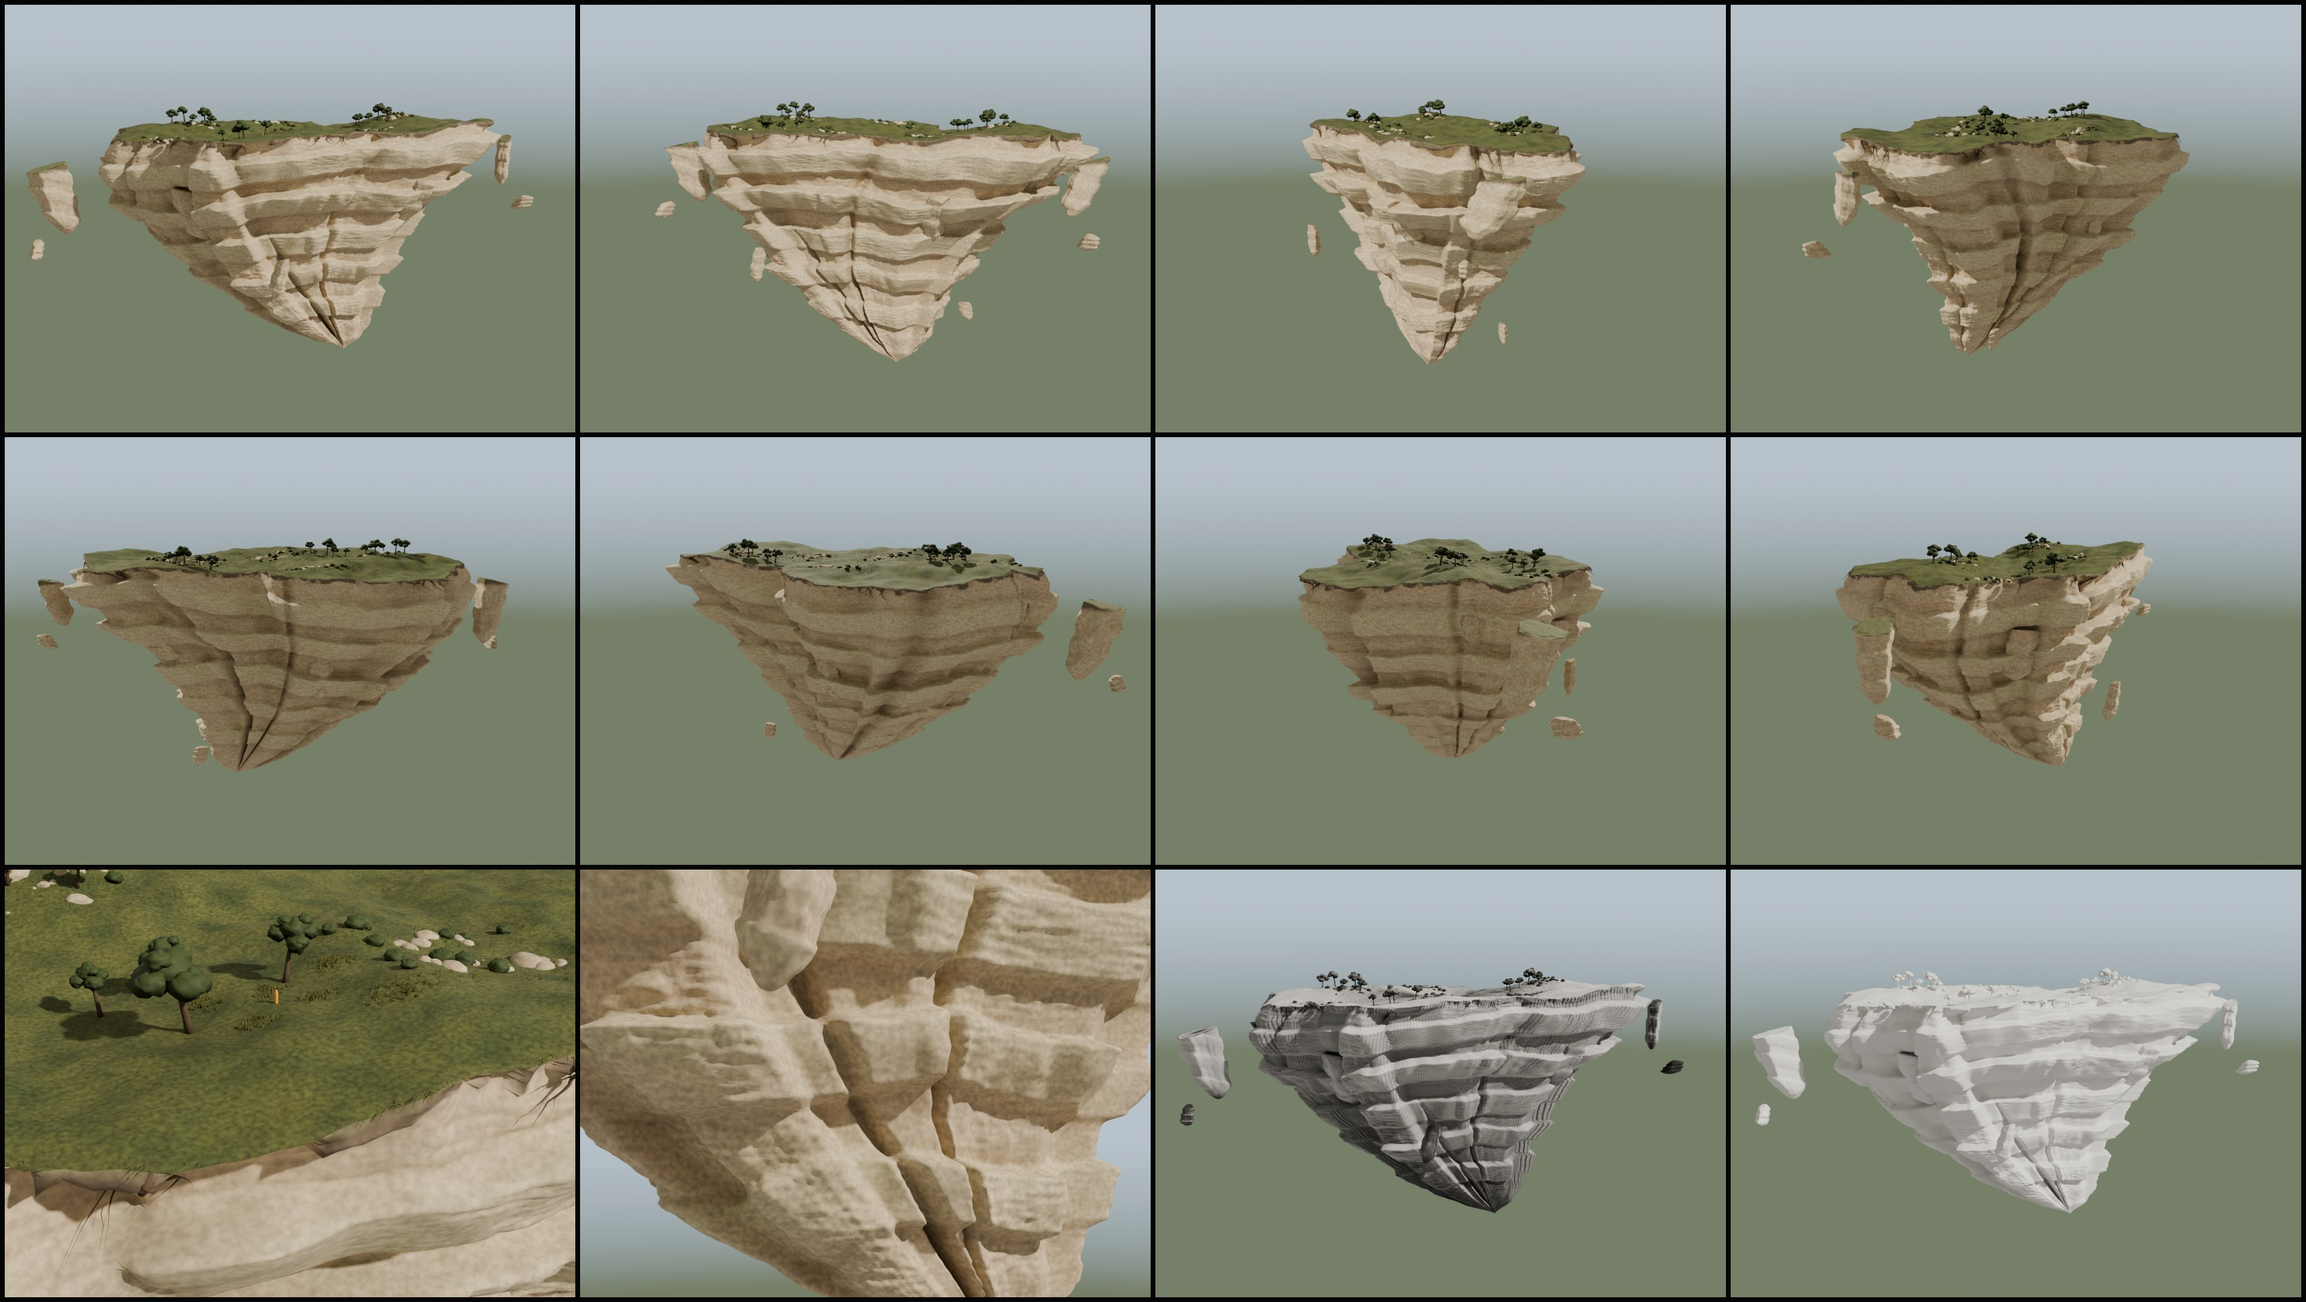
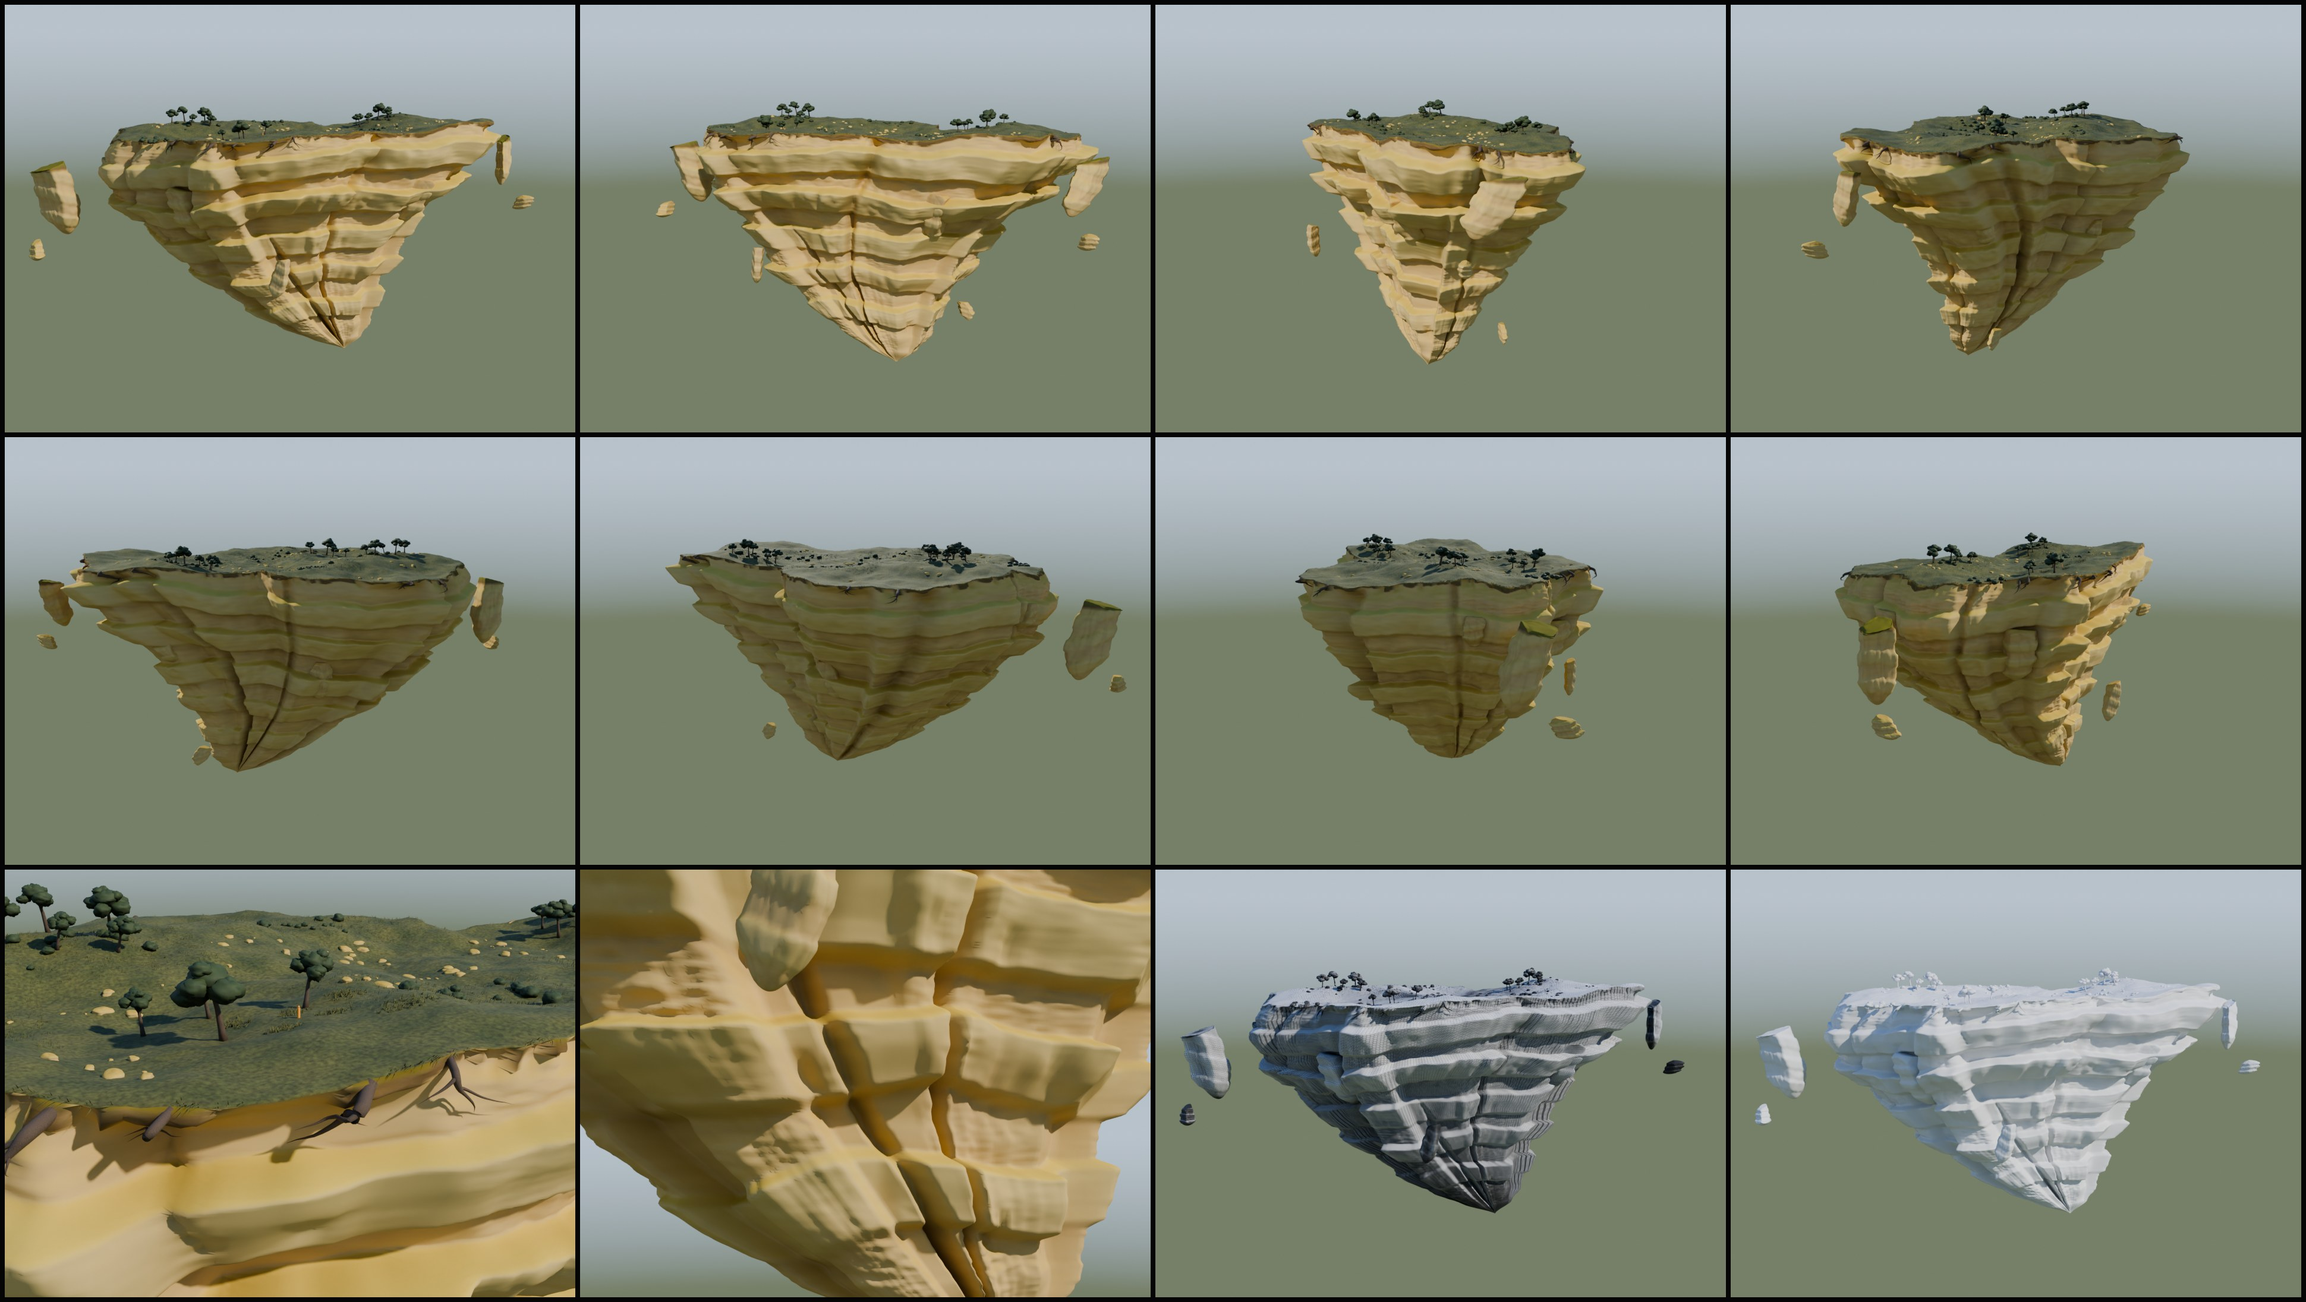
Scatter summit stone clumps and sharpen island ledges

diff --git a/assets/sky/floating_island_a/build.py b/assets/sky/floating_island_a/build.py
@@ -61,11 +61,11 @@ def mix(a, b, t):
 
 
 def tint(material, attribute, strength, name):
-    # Retain the library's mineral grain/roughness; add metre-scale geological colour.
     mat = vrmat.get(material).copy()
     mat.name = name
     nodes, links = mat.node_tree.nodes, mat.node_tree.links
-    socket = nodes["Principled BSDF"].inputs["Base Color"]
+    bsdf = nodes["Principled BSDF"]
+    socket = bsdf.inputs["Base Color"]
     color = nodes.new("ShaderNodeAttribute")
     color.attribute_name = attribute
     blend = nodes.new("ShaderNodeMixRGB")
@@ -80,23 +80,49 @@ def tint(material, attribute, strength, name):
         links.new(base, blend.inputs[1])
         links.new(color.outputs["Color"], blend.inputs[2])
     result = blend.outputs[0]
-    if material in {"grass_ground", "canyon_layered"}:
+    if material == "canyon_layered":
+        normal = nodes.new("ShaderNodeNewGeometry")
+        up = nodes.new("ShaderNodeSeparateXYZ")
+        links.new(normal.outputs["Normal"], up.inputs[0])
+        exposure = nodes.new("ShaderNodeMapRange")
+        exposure.inputs["From Min"].default_value = .04
+        exposure.inputs["From Max"].default_value = .78
+        links.new(up.outputs["Z"], exposure.inputs["Value"])
+        pigment = nodes.new("ShaderNodeMixRGB")
+        links.new(exposure.outputs["Result"], pigment.inputs[0])
+        pigment.inputs[1].default_value = (1.12, .97, .60, 1)
+        pigment.inputs[2].default_value = (1.14, .95, .30, 1)
+        mineral = nodes.new("ShaderNodeMixRGB")
+        mineral.blend_type = "MULTIPLY"
+        mineral.inputs[0].default_value = 1
+        links.new(pigment.outputs[0], mineral.inputs[2])
+        links.new(result, mineral.inputs[1])
+        result = mineral.outputs[0]
+        bsdf.inputs["Specular IOR Level"].default_value = .04
+        for node in nodes:
+            if node.type == "BUMP":
+                node.inputs["Distance"].default_value *= .28
+    elif material == "grass_ground":
         coords = next(n for n in nodes if n.type == "TEX_COORD")
         grain = nodes.new("ShaderNodeTexNoise")
-        grain.inputs["Scale"].default_value = 1.55 if material == "grass_ground" else .96
+        grain.inputs["Scale"].default_value = 1.55
         grain.inputs["Detail"].default_value = 3.4
         links.new(coords.outputs["Object"], grain.inputs["Vector"])
         shade = nodes.new("ShaderNodeMapRange")
         shade.inputs["From Min"].default_value = .29
         shade.inputs["From Max"].default_value = .71
-        shade.inputs["To Min"].default_value = .58 if material == "grass_ground" else .73
-        shade.inputs["To Max"].default_value = 1.26 if material == "grass_ground" else 1.15
+        shade.inputs["To Min"].default_value = .58
+        shade.inputs["To Max"].default_value = 1.26
         links.new(grain.outputs["Fac"], shade.inputs["Value"])
         mottling = nodes.new("ShaderNodeMixRGB")
         mottling.blend_type = "MULTIPLY"
         mottling.inputs[0].default_value = 1
         links.new(result, mottling.inputs[1])
-        links.new(shade.outputs["Result"], mottling.inputs[2])
+        olive = nodes.new("ShaderNodeVectorMath")
+        olive.operation = "MULTIPLY"
+        links.new(shade.outputs["Result"], olive.inputs[0])
+        olive.inputs[1].default_value = (1.15, 1, .74)
+        links.new(olive.outputs["Vector"], mottling.inputs[2])
         result = mottling.outputs[0]
     links.new(result, socket)
     return mat
@@ -158,13 +184,13 @@ def summit(x, y):
 
 def bed_color(p, lith, cavity, x, y, z):
     patina = n3(x/14, y/13, z/16)
-    veins = n3(x/3.7, y/3.7, z/.84)
+    veins = n3(x/7.3, y/6.4, z/1.68)
     limestone = mix(p["canyon_strata"], p["sandstone"], .47 + .13*patina)
     ivory = mix(p["canyon_chalk"], p["path_sand"], .20)
     dry = mix(limestone, ivory, smooth(.39 + lith + .16*patina))
     shaded = mix(limestone, p["soil"], .51)
     tone = mix(dry, shaded, min(.74, cavity*.70))
-    return tuple(v * (1 + .24 * veins) for v in tone)
+    return tuple(v * (1 + (.09 + .13*smooth(cavity)) * veins) for v in tone)
 
 
 def profile(t):
@@ -179,6 +205,31 @@ def lip(q):
     return smooth((q+.07)/.22) * (1-.23*smooth((q-.35)/.56)) * (1-smooth((q-.91)/.18))
 
 
+def ledge_chips():
+    rng = random.Random(SEED + 392)
+    chips = []
+    for _ in BEDS:
+        count = rng.randint(12, 17)
+        chips.append(tuple(((i+rng.uniform(-.39,.39))*math.tau/count, rng.uniform(.027,.095),
+                            rng.uniform(.70,.99), rng.uniform(.16,.37), rng.uniform(.46,1.88),
+                            rng.uniform(-.29,.31), rng.uniform(.7,1.6)) for i in range(count)))
+    return chips
+
+
+LEDGE_CHIPS = ledge_chips()
+
+
+def breakouts(chips, a, q):
+    setback = 0
+    for bearing, span, level, height, depth, lean, taper in chips:
+        measure = (q-level)/height
+        if abs(measure) < 1:
+            flank = angle_delta(a, bearing)/span - lean*measure
+            wedge = min(1-abs(measure), 1-max(taper*flank, -flank))
+            setback = max(setback, depth*wedge)
+    return setback
+
+
 def turf_scarps(ex, ey, a):
     variations = .68*n3(ex/12, ey/9, 43) + .37*n3(ex/5, ey/5, 110) + .19*math.sin(17*a+.4)
     gaps = smooth((n3(ex/4.5, ey/4, 38) - .085)*4.8 + .18*n3(ex/2.1, ey/2.1, 32))
@@ -186,13 +237,14 @@ def turf_scarps(ex, ey, a):
     return depth/(TOP-KEEL), gaps
 
 
-def weathering(x, y, z):
+def weathering(x, y, z, recess):
     section = smooth(.5 + 1.15*n3(x/48, y/43, z/40))
     broad = n3(x/17+.13*z, y/14, z/20+748)
     torn = n3(x/3.9-156, y/2.8+.05*z, z/7.9)
     grains = n3(x/1.4, y/1.4-72, z/1.9)
     flakes = n3(x/3.3+78, y/5.3, z/1.07)
-    return .96*broad + (.05+1.07*section)*torn + (.04+.42*section)*grains + .61*(1-section)*flakes
+    fine = (.04+.42*section)*grains + .61*(1-section)*flakes
+    return .96*broad + (.05+1.07*section)*torn + (.06+.94*recess)*fine
 
 
 def face(p, edge, a, t):
@@ -206,7 +258,7 @@ def face(p, edge, a, t):
     bed_z = t + (.026*x - .020*y + 2.1*n3(x/57, y/51, 3))/(TOP-KEEL)
     bed_z += .015*math.sin(3*a+.4)*smooth(t/.12)
     ramp = smooth(t/.04) * smooth((1-t)/.14)
-    ridge, lith, cavity, groove = 0, 0, 0, 0
+    ridge, lith, cavity, groove, exposed = 0, 0, 0, 0, 0
     for i, (level, width, height, centre, spread) in enumerate(BEDS):
         offset = .009*math.sin(4*a + i*2.3) + .013*n3(x/24, y/21, i+4)
         offset += .003*n3(x/5, y/5, i+7)
@@ -217,8 +269,10 @@ def face(p, edge, a, t):
             shelf = lip(q)
             chip = smooth(.5+1.6*n3(x/6, y/6, i*11)) * smooth(.44 + 1.8*n3(x/14, y/13, i*7))
             bedding = math.sin(39*q + 4.2*n3(x/22, y/20, i) + .65*n3(x/6, y/5, i))
-            rim = .82*chip*math.exp(-((q-.94)/.23)**2) + .15*bedding*shelf*chip
+            notch = max(0, 1-abs(q-.96-.16*chip)/.28)
+            rim = 1.24*chip*notch + .075*bedding*shelf*chip + breakouts(LEDGE_CHIPS[i], a, q)
             ridge += height * shelf * pinch * emergence - rim
+            exposed = max(exposed, smooth(1.5*shelf))
             lith += (.52, .27, .45, .14, .32)[i]*shelf + .31*math.exp(-((q-.12)/.24)**2)
             cavity += .56*math.exp(-((q-1.10)/.17)**2)
     for bearing, width, depth, lean in FAULTS:
@@ -230,7 +284,8 @@ def face(p, edge, a, t):
                                              (2.86, .35, 11, .41), (-2.38, .72, 12, .48)):
         az = angle_delta(a, direction - .43*t)
         spur += .62*weight * math.exp(-(az/spread)**2 - ((t-level)/.188)**2)
-    displacement = ridge + spur - groove + weathering(x, y, z)
+    recess = min(1, 1-.84*exposed + .4*smooth(wet))
+    displacement = ridge + spur - groove + weathering(x, y, z, recess)
     for bearing, reach, anchor, slope in ((-2.5, .24, .23, -.23), (-1.79, .24, .36, .19),
                                          (-.80, .27, .63, -.12), (.48, .20, .29, .34),
                                          (1.54, .26, .41, -.17), (2.52, .19, .67, .30)):
@@ -472,40 +527,81 @@ def turf_tufts(blades):
 
 def root_system(p, wood):
     rng = random.Random(SEED + 830)
-    for bearing, width, span in ((.30, .19, 10), (-.33, .15, 14), (1.83, .11, 12),
-                                 (-2.63, .14, 10), (-2.06, .19, 14), (-1.59, .14, 9)):
-        for _ in range(rng.randint(3, 6)):
-            a = bearing + rng.uniform(-width, width)
-            edge = footprint(a)
-            thickness, erosion = turf_scarps(*edge, a)
-            if erosion > .62:
+    for bearing, spread in ((.30, .14), (-.38, .11), (1.83, .16),
+                            (-2.53, .12), (-2.06, .13), (-1.80, .09)):
+        roots = []
+        for _ in range(24):
+            if len(roots) >= 2:
+                break
+            a = bearing + rng.uniform(-spread, spread)
+            depth, gap = turf_scarps(*footprint(a), a)
+            if gap > .36 or depth*(TOP-KEEL) < 1.25 or any(abs(a-b) < .050 for b in roots):
                 continue
-            start = max(.002, thickness*rng.uniform(.14, .48))
-            length = rng.uniform(.43, 1)*span
-            radius = rng.uniform(.23, .58)
-            bend, phase = rng.uniform(-3.1, 2.9), rng.uniform(0, math.tau)
-            path, radii = [], []
-            for i in range(13):
-                t = i/12
-                az = a + .025*math.sin(3.8*t+phase)*t + .007*bend*t
-                x, y, z = face(p, footprint(az), az, start+length*t/(TOP-KEEL))[0]
-                drift = -.65 + 1.46*smooth(t/.21) + .64*math.sin(5.2*t+phase)*t + 2.05*t*t
-                path.append(Vector((x+math.cos(az)*drift, y+math.sin(az)*drift, z)))
-                radii.append(radius*(1-.96*t)**1.44*(1+.15*math.sin(11*t+phase)*t))
-            wood_tube(wood, path, radii)
-            tx, ty = -math.sin(a), math.cos(a)
-            for i, side in ((rng.randint(2,4), -1), (rng.randint(5,7), 1)):
-                origin = path[i]
-                drift = Vector((side*tx, side*ty, rng.uniform(-.26,.26)))
-                length = rng.uniform(1.1, 2.9)
-                twig = [origin, path[i+1]+.18*length*drift, path[i+2]+.55*length*drift,
-                        path[i+3]+length*drift, path[i+4]+1.27*length*drift]
-                width = radii[i]*rng.uniform(.43,.65)
-                wood_tube(wood, twig, [width*k for k in (1, .71, .42, .22, .036)], 7)
+            roots.append(a)
+            start = depth*rng.uniform(.19, .31)
+            drop = rng.uniform(5.4, 8.4)/(TOP-KEEL)
+            radius = rng.uniform(.66, 1.10)
+            sway = rng.choice((-1, 1))*rng.uniform(.035, .068)
+            phase = rng.uniform(0, math.tau)
+
+            def root_point(t, splay=0):
+                az = a + sway*t**1.3 + .013*t*math.sin(5*t+phase) + splay
+                x, y, z = face(p, footprint(az), az, start+drop*t)[0]
+                inset = -1.25*radius + (1.72*radius+1.10)*smooth(t/.23)
+                inset += 1.65*smooth(t/.32)*(1-smooth((t-.63)/.37))
+                inset += .38*math.sin(4.7*t+phase)*smooth(t/.3) - .60*smooth((t-.74)/.26)
+                return Vector((x+math.cos(az)*inset, y+math.sin(az)*inset, z))
+
+            steps = [i/16 for i in range(17)]
+            radii = [radius*(1-.97*t)**1.12*(1+.12*math.sin(12*t+phase)) for t in steps]
+            wood_tube(wood, [root_point(t) for t in steps], radii, 12)
+            for i, side in ((4, -1), (7, 1)):
+                span = rng.uniform(.019, .048)*side
+                reach = rng.uniform(.26, .50)
+                width = radii[i]*rng.uniform(.48, .67)
+                branch = [root_point(steps[i]+reach*s, span*s**1.35) for s in steps]
+                wood_tube(wood, branch, [width*(1-.97*s)**1.13 for s in steps], 9)
+
+
+def summit_stones(mesh, p, shrubs):
+    rng = random.Random(SEED + 433)
+    clumps, stones = [], []
+
+    def inside(x, y):
+        ex, ey = footprint(math.atan2(y/RY, x/RX))
+        return math.hypot(x, y) < .92*math.hypot(ex, ey)
+
+    for _ in range(240):
+        if len(clumps) == 14:
+            break
+        x, y = rng.uniform(-RX, RX), rng.uniform(-RY, RY)
+        if not inside(x, y) or any(math.hypot(x-a, y-b) < 19 for a, b in clumps):
+            continue
+        if any(math.hypot(x-a, y-b) < 5+s for a, b, s in shrubs):
+            continue
+        clumps.append((x, y))
+        limit = rng.randint(4, 11)
+        accepted = 0
+        sx, sy = rng.uniform(2.7, 6.8), rng.uniform(2.7, 6.8)
+        for _ in range(limit*9):
+            a, b = rng.gauss(x, sx), rng.gauss(y, sy)
+            r = rng.uniform(.39, 1.85)**1.36 if accepted else rng.uniform(1.65, 2.65)
+            if (not inside(a, b) or math.hypot(a-FIGURE[0], b-FIGURE[1]) < 1.5+r
+                    or any(math.hypot(a-u, b-v) < 2+r+s for u, v, s in shrubs)
+                    or any(math.hypot(a-u, b-v) < .85*(r+s) for u, v, s in stones)):
+                continue
+            stones.append((a, b, r))
+            height = r*rng.uniform(.38, .74)
+            outcrop(mesh, p, (a, b, summit(a, b)-.27*height), (r, r*rng.uniform(.57, .88), height),
+                    rng, 24, 16, rng.uniform(0, math.tau), -.24, rng.uniform(-.3, .3), .8)
+            accepted += 1
+            if accepted == limit:
+                break
 
 
 def cover(p, rng, stone_mat):
     wood, leaves, floaters, rubble, blades = Mesh(), Mesh(), Mesh(), Mesh(), Mesh()
+    shrubs = []
     for x, y, h in ((-73, 22, 8), (-63, 27, 10), (-63, 13, 7), (-51, 22, 9),
                     (-52, 9, 6.5), (-32, -37, 8), (-47, -43, 10.5), (-56, -31, 7),
                     (-45, -29, 7), (65, 13, 6.5), (76, 19, 10.2), (79, 9, 7.2),
@@ -516,16 +612,8 @@ def cover(p, rng, stone_mat):
         for _ in range(13):
             a, b = x+rng.uniform(-sx, sx), y+rng.uniform(-sy, sy)
             s = rng.uniform(.62, 1.75)
+            shrubs.append((a, b, s))
             canopy(leaves, p, Vector((a, b, summit(a, b)+.35*s)), s, rng)
-        for j in range(17):
-            u, v = rng.uniform(-1, 1), rng.uniform(-1, 1)
-            phase = .19*x + j%3*2.37
-            a = x+sx*(.49*math.cos(phase)+.41*u+.11*v*v)
-            b = y+sy*(.50*math.sin(phase)+.34*v-.13*u*u)
-            r = rng.uniform(.30, 2.3)**1.25
-            r *= 1.52 if j in (3, 12) else .77 if j%4 else 1.04
-            outcrop(rubble, p, (a, b, summit(a, b)-.21*r), (r, r*.73, r*.68),
-                    rng, 24, 16, rng.uniform(0, math.tau), -.24, rng.uniform(-.3, .3))
         for _ in range(430):
             a, b = x+rng.uniform(-1.4*sx, 1.4*sx), y+rng.uniform(-1.4*sy, 1.4*sy)
             if ((a/RX)**2+(b/RY)**2)**.5 > .76:
@@ -538,6 +626,7 @@ def cover(p, rng, stone_mat):
                 blade(blades, x0, y0, z, h, w, phase, (.48*h, .08*h))
 
     turf_tufts(blades)
+    summit_stones(rubble, p, shrubs)
 
     # Several coherent slips cling to the cliff; the detached pieces share its bedding.
     for a, depth, sx, sy, sz in ((-.83, .34, 15, 9, 17), (.20, .33, 12, 10, 12),
@@ -573,9 +662,8 @@ def build():
     cover(p, random.Random(SEED), stone_mat)
     scene = bpy.context.scene
     scene["vr_review_floating"] = True
-    scene["vr_review_neutral_sky"] = True
     ex, ey = FIGURE
     scene["vr_review_figure"] = (ex, ey, summit(ex, ey)-.03)
     scene["vr_review_turn"] = (0, 0, 89, 247, 12, 530)
-    scene["vr_closeup_upper"] = (-39, -56, 146, -112, 31, 91)
+    scene["vr_closeup_upper"] = (-43, -58, 146, -112, 20, 101)
     scene["vr_closeup_base"] = (8, -5, 58, -118, -5, 170)

diff --git a/tools/blender/render_sheet.py b/tools/blender/render_sheet.py
@@ -60,15 +60,7 @@ def studio():
     nt.links.new(coord.outputs["Generated"], sep.inputs["Vector"])
     nt.links.new(sep.outputs["Z"], remap.inputs["Value"])
     nt.links.new(remap.outputs["Result"], ramp.inputs["Fac"])
-    sky = ramp.outputs["Color"]
-    if scene.get("vr_review_neutral_sky"):
-        rays = nt.nodes.new("ShaderNodeLightPath")
-        illumination = nt.nodes.new("ShaderNodeMixRGB")
-        illumination.inputs[1].default_value = (.53, .51, .46, 1)
-        nt.links.new(rays.outputs["Is Camera Ray"], illumination.inputs[0])
-        nt.links.new(sky, illumination.inputs[2])
-        sky = illumination.outputs["Color"]
-    nt.links.new(sky, bg.inputs["Color"])
+    nt.links.new(ramp.outputs["Color"], bg.inputs["Color"])
     bg.inputs["Strength"].default_value = 0.9
     scene.world = world
 
